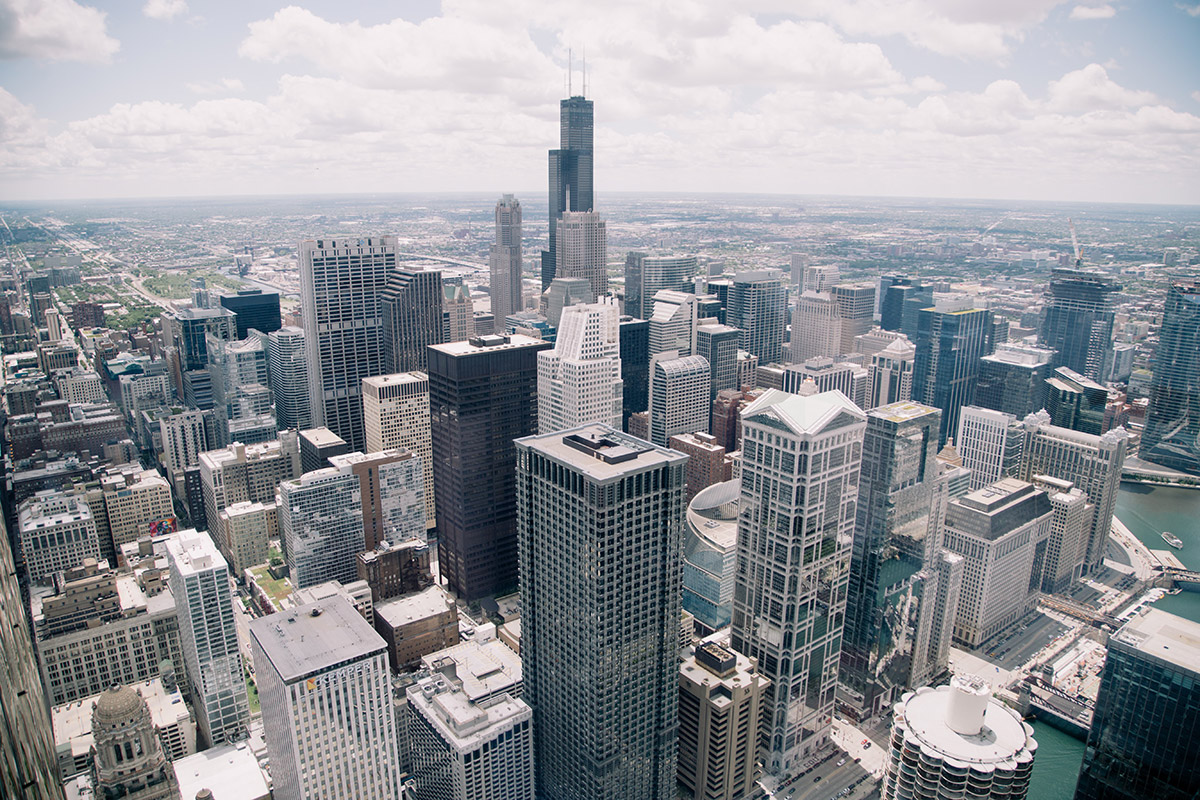
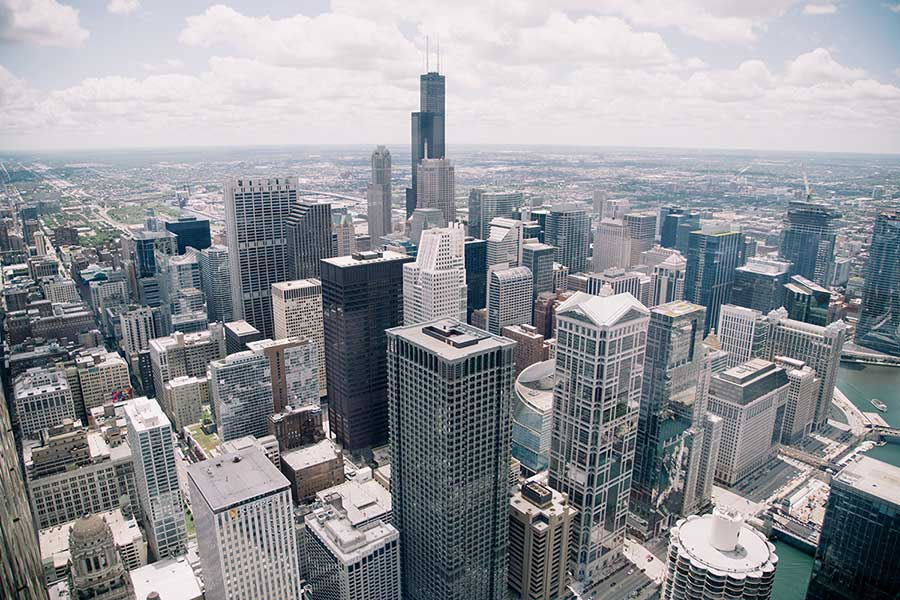
optimize images

diff --git a/client/src/Components/Header.js b/client/src/Components/Header.js
@@ -7,7 +7,7 @@ const Header = ({ open, setOpen }) => {
   useEffect(() => {
     let timeout = setTimeout(
       () => (value === 300 ? setValue(0) : setValue(value + 100)),
-      7000
+      6000
     );
     return () => clearTimeout(timeout);
   }, [value]);
@@ -41,25 +41,25 @@ const Header = ({ open, setOpen }) => {
             >
               <div className="slide_img">
                 <img
-                  src={require("../assets/2.png")}
+                  src={require("../assets/2.jpg")}
                   alt="cars and trucks"
                 />
               </div>
               <div className="slide_img">
                 <img
-                  src={require("../assets/1.png")}
+                  src={require("../assets/1.jpg")}
                   alt="cars and trucks"
                 />
               </div>
               <div className="slide_img">
                 <img
-                  src={require("../assets/3.png")}
+                  src={require("../assets/3.jpg")}
                   alt="cars and trucks"
                 />
               </div>
               <div className="slide_img">
                 <img
-                  src={require("../assets/4.png")}
+                  src={require("../assets/4.jpg")}
                   alt="cars and trucks"
                 />
               </div>

diff --git a/client/src/Components/Customer.js b/client/src/Components/Customer.js
@@ -11,7 +11,7 @@ const Customer = () => {
 
             <div className="customer customer_active">
                 <div className="customer__details">
-                    <img src={require("../assets/customer1.png")} alt="first customer" />
+                    <img src={require("../assets/customer1.jpg")} alt="first customer" />
                     <h5>John Does</h5>
                     <p>Manager, ABC ltd.</p>
                 </div>
@@ -23,7 +23,7 @@ const Customer = () => {
 
             <div className="customer">
                 <div className="customer__details">
-                    <img src={require("../assets/customer1.png")} alt="first customer" />
+                    <img src={require("../assets/customer1.jpg")} alt="first customer" />
                     <h5>John Does2</h5>
                     <p>Manager, ABC ltd.</p>
                 </div>
@@ -35,7 +35,7 @@ const Customer = () => {
 
             <div className="customer">
                 <div className="customer__details">
-                    <img src={require("../assets/customer1.png")} alt="first customer" />
+                    <img src={require("../assets/customer1.jpg")} alt="first customer" />
                     <h5>John Does3</h5>
                     <p>Manager, ABC ltd.</p>
                 </div>

diff --git a/client/src/Components/About.js b/client/src/Components/About.js
@@ -4,7 +4,7 @@ const About = () => {
     return ( <section className="about" id="about">
         <div className="about__honeydrops box">
             <h2>Know more about Honeydrops</h2>
-            <img src={require("../assets/Telematics.png")} alt="telematics illustration" ></img>
+            <img src={require("../assets/Telematics.jpg")} alt="telematics illustration" ></img>
             <p>
                 Honeydrops solutions designed to help you optimize, scale and take absolute control of your cost operations anywhere in the world.
                 <br /><br />
@@ -18,7 +18,7 @@ const About = () => {
 
         <div className="about__telematics box">
             <h2>What is Telematics?</h2>
-            <img src={require("../assets/why_is_telematics.png")} alt="telematics illustration" ></img>
+            <img src={require("../assets/why_is_telematics.jpg")} alt="telematics illustration" ></img>
             <p>
                  Tracking basically provides information on position, while Telematics gives you more details than mere position. Tracking is just like 10% of the REAL DEAL.
                 <br /><br />

diff --git a/client/src/app.scss b/client/src/app.scss
@@ -284,6 +284,7 @@ nav {
         }
 
         img {
+            border-radius: 2.6rem;
             width: 16rem;
 
             @media only screen and (max-width: 1000px) {
@@ -471,6 +472,7 @@ section {
 
         img {
             width: 100%;
+            border-radius: 2rem;
         }
     }
 
